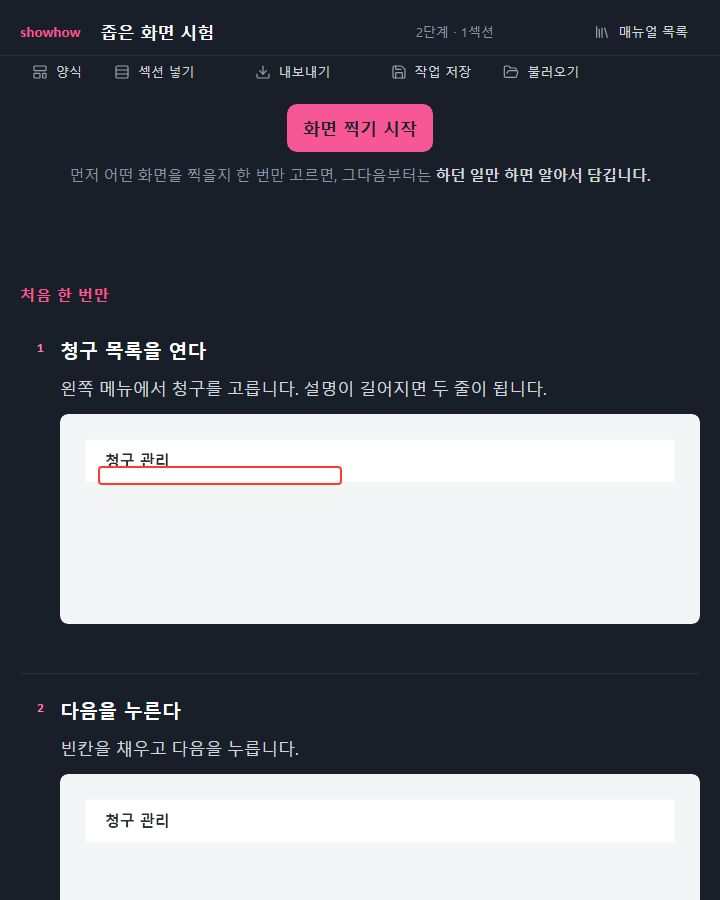
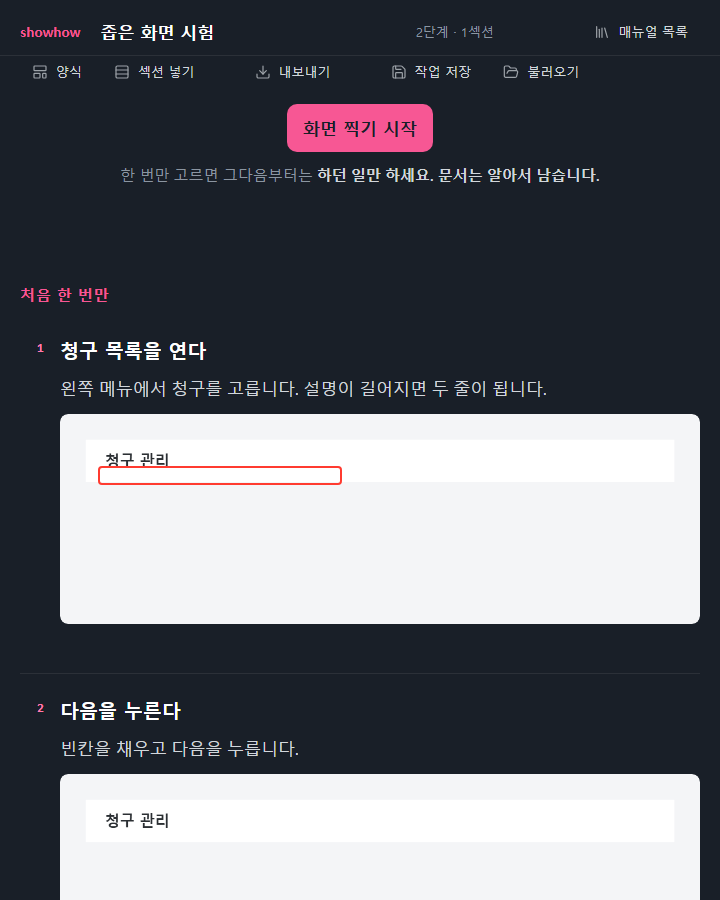
화두를 바꿨다 — "하던 일만 하세요. 문서는 알아서 남습니다"
영웅님 지적: 옛 화두("찍는 걸 잊어도 매뉴얼이 남습니다")가 별로다.
짚어 보니 "잊어도"가 사용자를 실수하는 사람으로 만든다. 약속이 아니라 변명이다.

세 갈래를 만들어 영웅님이 골랐다:
  ① 매뉴얼은 쓰는 게 아니라 남는 것 (개념 명명)
  ② 하던 일만 하세요. 문서는 알아서 남습니다  ← 고름
  ③ 빠진 단계가 없는 매뉴얼 (고통 정면)

네 곳을 한꺼번에 바꿨다 — 표지 그림·README 두 벌·저장소 한 줄 설명·첫 화면.
한 곳만 고치면 나머지가 옛 문구로 남는다.

표지도 다시 만들었다. 배경은 grok, 글자는 코드로(뭉개지지 않게),
값은 전부 디자인 시스템 토큰에서. tests/표지만들기.mjs 로 다시 만들 수 있다.

결정 근거: 자기개발\업무_매뉴얼도구\결정_화두_2026-08-21.md
검사 359건.

Changed region(s): [[0.0917, 0.1867, 0.8861, 0.2178]]

diff --git a/index.html b/index.html
@@ -917,7 +917,7 @@
 <div id="stage">
   <div id="shootwrap">
     <button id="shoot">화면 찍기 시작</button>
-    <div id="shootsub">먼저 어떤 화면을 찍을지 한 번만 고르면, 그다음부터는 <b>하던 일만 하면 알아서 담깁니다.</b></div>
+    <div id="shootsub">한 번만 고르면 그다음부터는 <b>하던 일만 하세요. 문서는 알아서 남습니다.</b></div>
   <div id="shootpick">고르는 창에서는 <b>매뉴얼로 만들 프로그램</b>을 고르세요 — 이 창을 고르면 자기 자신이 찍힙니다.</div>
     <div id="autowrap">
       <button id="autobtn" class="tool on"><span id="autolabel">자동 촬영 켜짐</span></button>

diff --git a/README.md b/README.md
@@ -1,8 +1,8 @@
-<img src="docs/표지.png" alt="showhow — 찍는 걸 잊어도 매뉴얼이 남습니다" width="100%">
+<img src="docs/표지.png" alt="showhow — 하던 일만 하세요. 문서는 알아서 남습니다" width="100%">
 
 # showhow
 
-**찍는 걸 잊어도 매뉴얼이 남습니다.** 업무 화면을 자동으로 담아 PDF·PPT로 내보내는, 브라우저 파일 하나짜리 도구입니다.
+**하던 일만 하세요. 문서는 알아서 남습니다.** 업무 화면을 자동으로 담아 PDF·PPT·워드로 내보내는, 브라우저 파일 하나짜리 도구입니다.
 
 [English](README.en.md) · [바로 써보기](https://svy04.github.io/showhow/) · [파일로 내려받기](https://github.com/svy04/showhow/raw/main/index.html)
 

diff --git a/README.en.md b/README.en.md
@@ -1,8 +1,8 @@
-<img src="docs/표지.png" alt="showhow — the manual survives even when you forget to capture" width="100%">
+<img src="docs/표지.png" alt="showhow — Just do your work. The document stays behind." width="100%">
 
 # showhow
 
-**The manual survives even when you forget to capture.** A single browser file that records your screen as you work and exports it as PDF or PowerPoint.
+**Just do your work. The document stays behind.** A single browser file that records your screen as you work and exports it as PDF, PowerPoint or Word.
 
 [한국어](README.md) · [Open it](https://svy04.github.io/showhow/) · [Download the file](https://github.com/svy04/showhow/raw/main/index.html)
 
